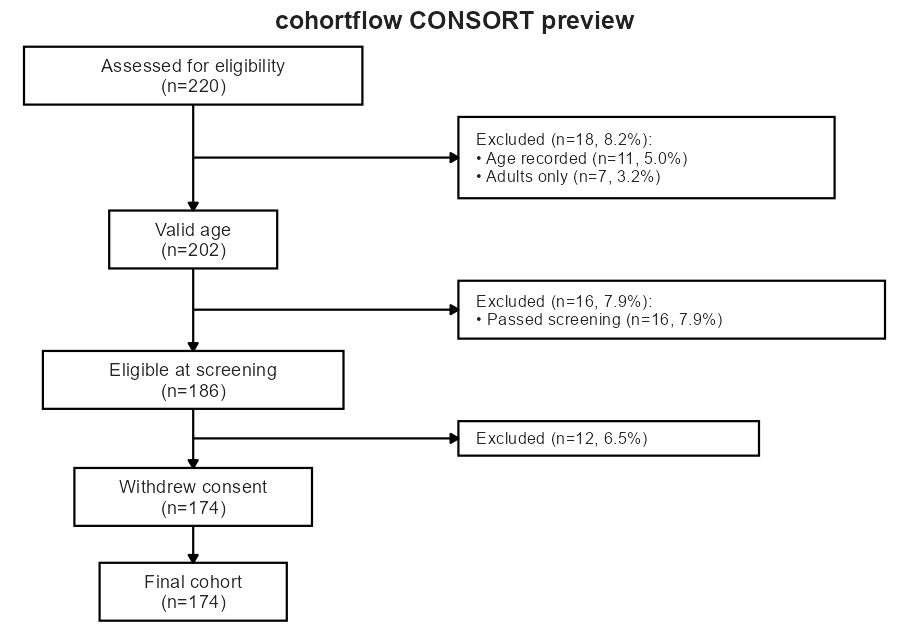
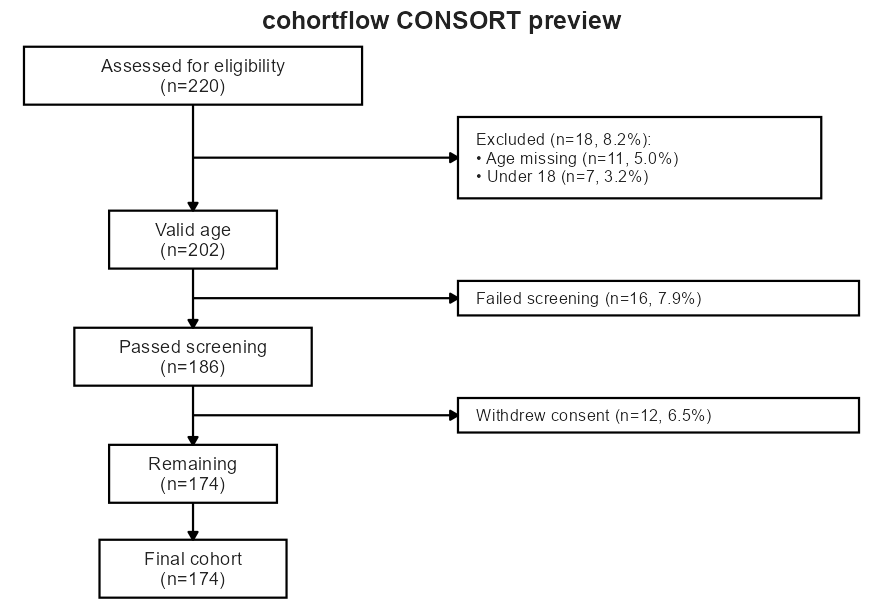
docs: give inclusion steps a reason; describe the new box text and count_by
Every example pipeline gives its inclusion steps a `reason`. The
writing-criteria vignette and the CONSORT article explain which text goes
in which box. The crossover examples build the flow with a hierarchy and
count participants throughout.

Changed region(s): [[0.0306, 0.0, 0.9785, 0.9967]]

diff --git a/README.md b/README.md
@@ -56,10 +56,10 @@ dat <- mock_parallel_rct(n_participants = 200, seed = 1)
 
 # Define criteria pipeline
 crit <- cf_criteria() |>
-  include(~ !is.na(age),     label = "Age recorded",    category = "Age") |>
-  include(~ age >= 18,       label = "Adults only",     category = "Age") |>
-  include(~ eligible_screen, label = "Passed screening", category = "Screening") |>
-  exclude(~ withdrew,        label = "Withdrew consent")
+  include(~ !is.na(age), label = "Age recorded", reason = "Age missing", category = "Age") |>
+  include(~ age >= 18,   label = "Adults only",  reason = "Under 18",    category = "Age") |>
+  include(~ eligible_screen, label = "Passed screening", reason = "Failed screening") |>
+  exclude(~ withdrew, label = "Withdrew consent")
 
 # Apply criteria
 flow <- apply_criteria(dat, crit)
